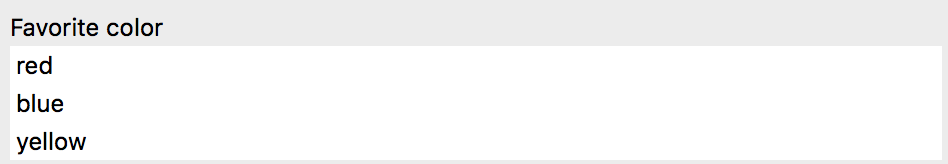
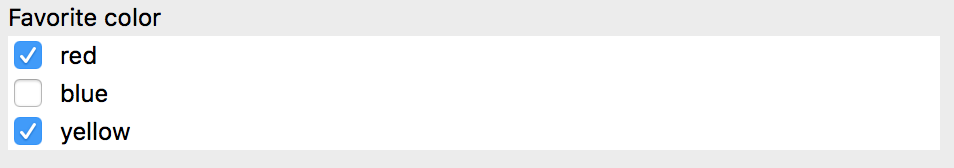
Update to EasyTables v0.7

Changed region(s): [[0.0, 0.0305, 0.1835, 0.4878], [0.0, 0.4878, 0.153, 0.9451]]

diff --git a/EasyDialogs/input controls/ObjectListInput.swift b/EasyDialogs/input controls/ObjectListInput.swift
@@ -140,7 +140,7 @@ extension ObjectListInput {
             columns: columns.map { Unique<VALUE>.wrapColumnDefinition($0) },
             contextMenuOperations: [],
             table: table,
-            allowMultipleSelection: true,
+            selectionModel: .multipleNative,
             selectionCallback: { _ in reference.object?.updateSelection() })
         let rowHeight = tableSource.table.rowHeight + tableSource.table.intercellSpacing.height
         constrain(scroll) { scroll in

diff --git a/EasyDialogs/input controls/MultipleSelectionInput.swift b/EasyDialogs/input controls/MultipleSelectionInput.swift
@@ -57,7 +57,7 @@ public class MultipleSelectionInput<VALUE: Equatable>: ValueInput<[VALUE], NSScr
             ],
             contextMenuOperations: [],
             table: table,
-            allowMultipleSelection: true,
+            selectionModel: .multipleCheckbox,
             selectionCallback: { _ in })
         self.tableSource = tableSource
         let maxRows = min(maxRowsToDisplay ?? possibleValues.count, possibleValues.count)

diff --git a/README.md b/README.md
@@ -9,7 +9,7 @@ This library provides input dialogs for text, numbers, dropdown, multiple select
 
 ## Example
 
-![Example](https://user-images.githubusercontent.com/620000/30260589-914d88f0-96c8-11e7-9be3-b23df188d638.png)
+![Example](docs/example1.png)
 
 To create a modal form window like the one seen in the screenshot, all you need is this code:
 
